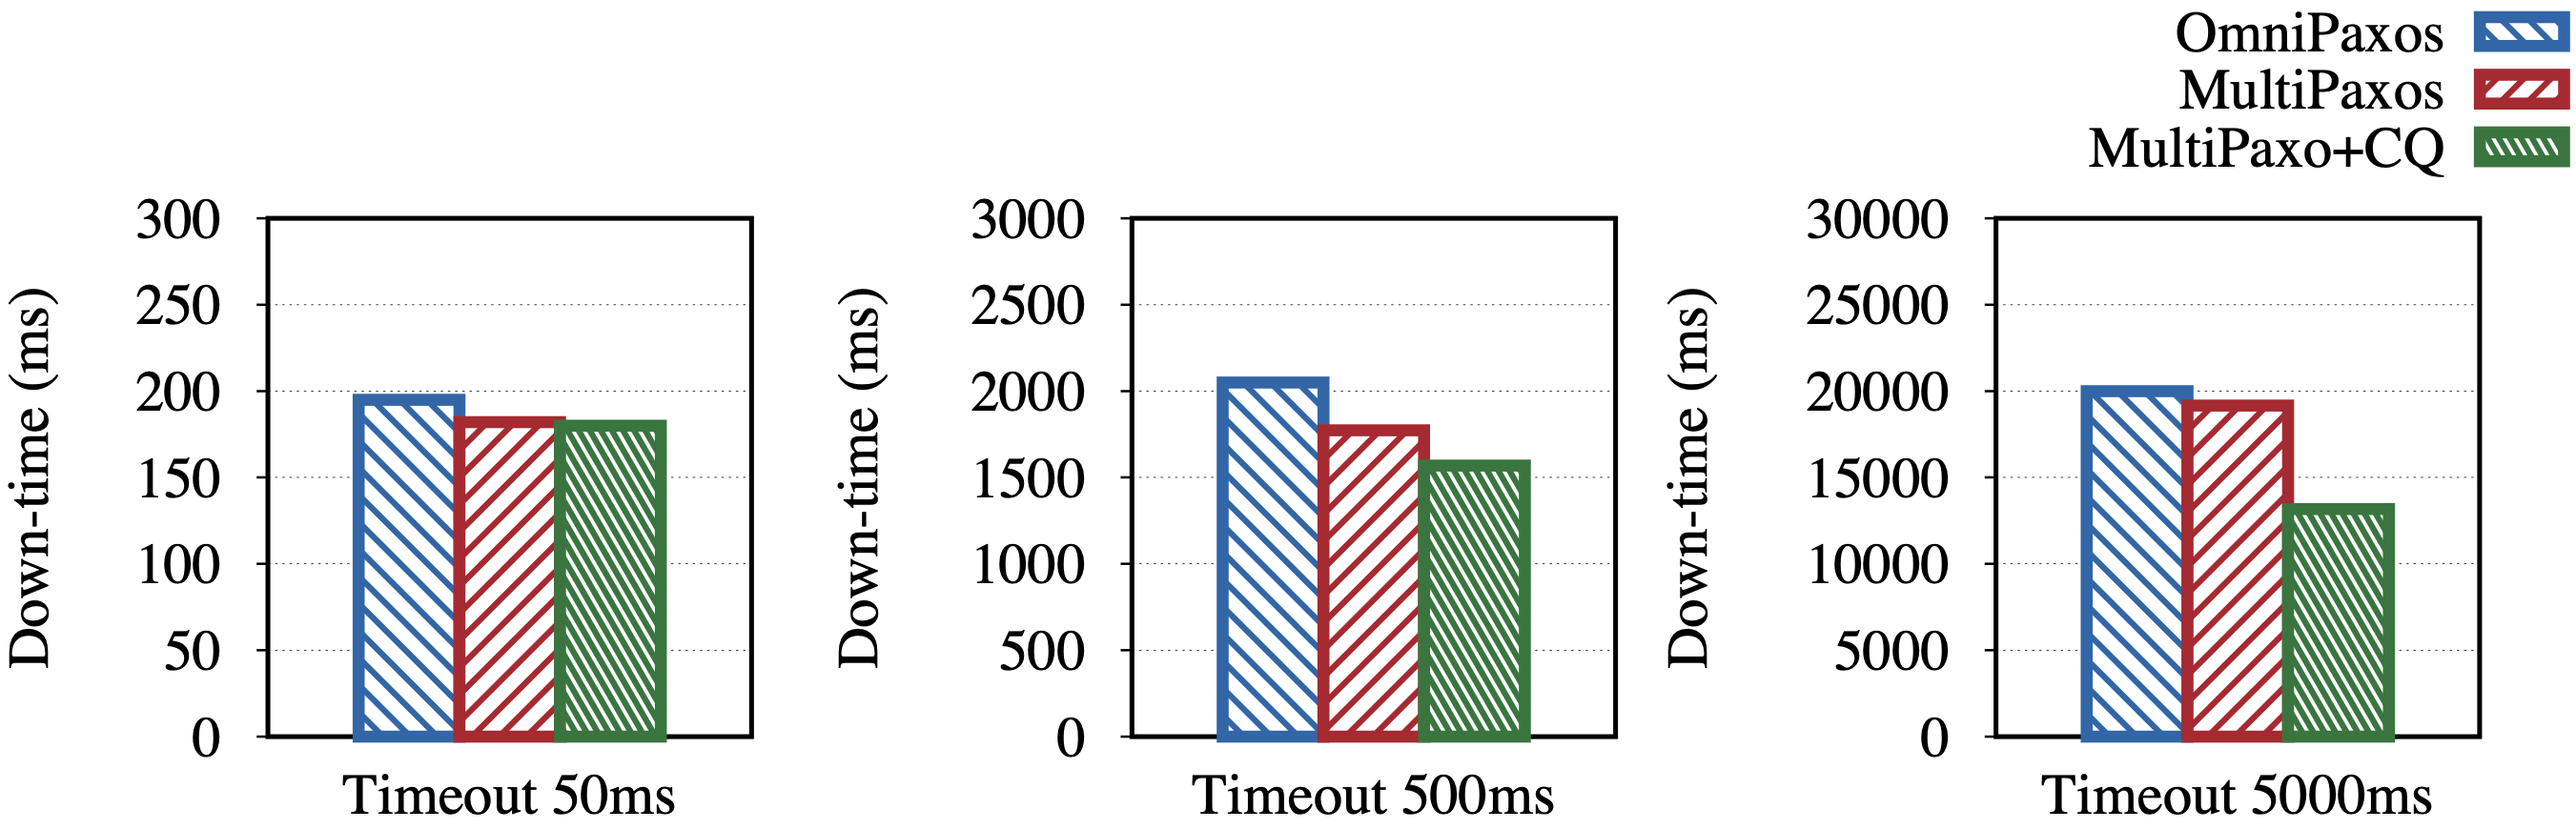
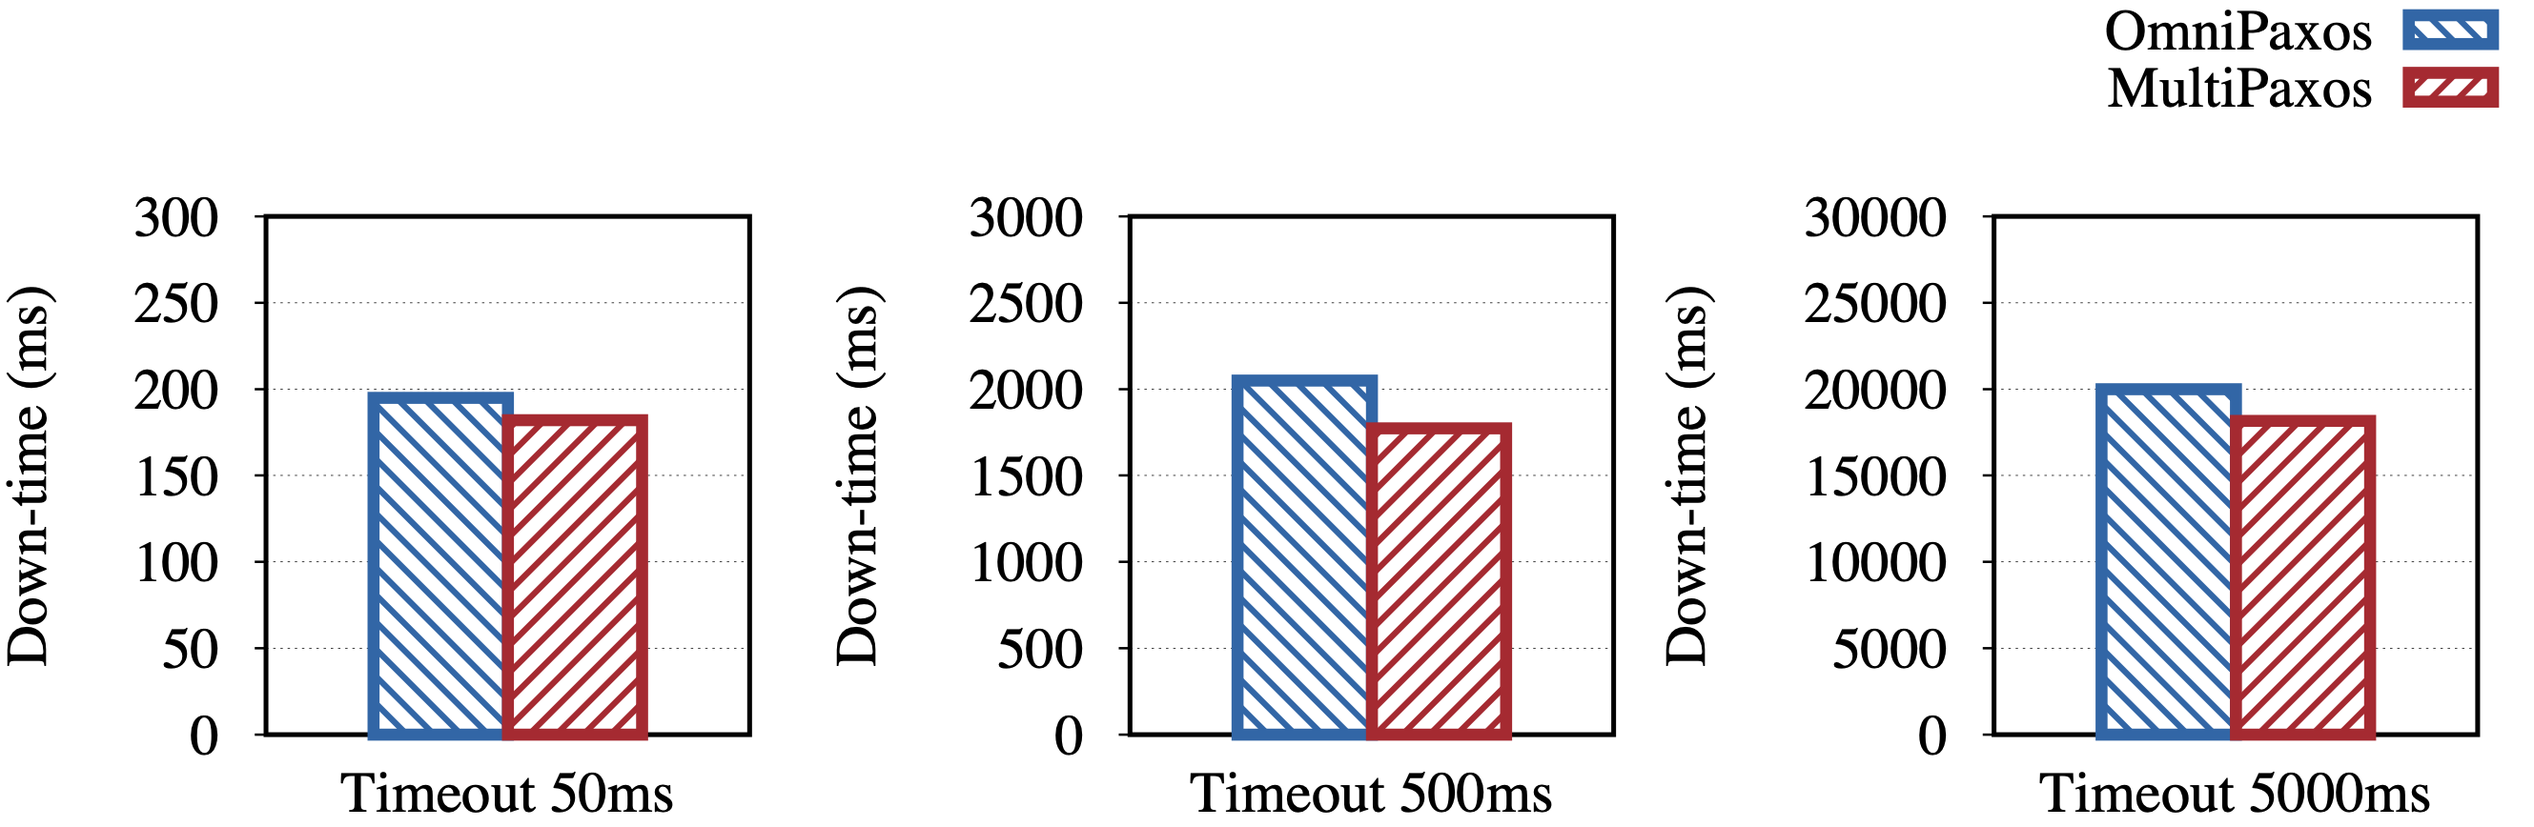
update the blog

diff --git a/_posts/2015-08-14-blog-post-4.md b/_posts/2015-08-14-blog-post-4.md
@@ -1,66 +1,71 @@
 ---
-title: 'Re-evaluation on MultiPaxos under partial network partition from 
+title: 'Re-evaluation on MultiPaxos under partial network partition from
 the OmniPaxos paper'
 date: 2023-06-28
 permalink: /posts/2023/06/blog-post-1/
 ---
 
 > TL;DR: OmniPaxos proposes some changes in MultiPaxos to deal with partial
-> network partitions, where classic MultiPaxos and Raft lead to deadlocks or
-> livelocks. However, our MultiPaxos implementation can easily elect a new
-> stable leader under the network partition.
+> network partitions, where classic MultiPaxos leads to deadlocks. However, we
+> show that it is not the case for MultiPaxos. Even without the complicated
+> optimization in OmniPaxos, MultiPaxos can easily elect a new stable leader
+> under the network partition.
 
-This paper appeared in EuroSys 23. It proposed a resilient approach, called
-OmniPaxos, to deal with partial network partition. The partial network partition
-refers to a scenario where two servers are unreachable from each other but
-connected by a third server. The authors argue that, under the partial network
-connectivity circumstance, traditional RSM systems (like Multi-Paxos, Raft, VR)
-may lead to performance degradation and even stop progressing because of
-deadlocks or livelocks.
+This paper appeared in EuroSys 23. It proposed a resilient approach,
+called [OmniPaxos](https://dl.acm.org/doi/abs/10.1145/3552326.3587441), to deal
+with partial network partition. The partial network partition refers to a
+scenario where two servers are unreachable from each other but connected by a
+third server. The authors argue that, under the partial network connectivity
+circumstance, traditional RSM systems (like Multi-Paxos, Raft, VR) may lead to
+performance degradation and even stop progressing because of deadlocks or
+livelocks.
 
 ## What is partial network partition?
 
-![Example](https://raw.githubusercontent.com/Zhiying12/zhiying12.github.io/master/images/post-06%3A28-partition.png "Example")
+![](https://raw.githubusercontent.com/Zhiying12/zhiying12.github.io/master/images/post-06%3A28-partition.png "Example")
 
 This paper identifies and focuses on three types of partial network connectivity
-that can lead to livelocks in existing RSM systems. All three scenarios are 
+that can lead to livelocks in existing RSM systems. All three scenarios are
 shown in the graph borrowed from the paper.
 
-- ***Quorum-loss scenario***. Given an initial cluster of five fully-connected 
-  servers , where Server C is the stable leader, the quorum-loss scenario may arise when all
-servers are connected to Server A only and disconnected from the rest. In this
-case, Server B, D, and E cannot become the leader because they only receive
-votes from Server A and itself at most, which is less than the majority
-requirement, while Server A will not start the leader election because it can
-still receive heartbeats from the existing leader C. \
-Though this claim is not fully valid, the authors argue that, except for Raft, 
-the replication progress will be stalled because no functional leader will be 
-elected. (However, we will show that MultiPaxos can handle this scenario as 
-well in the later section).
+- ***Quorum-loss scenario***. Given an initial cluster of five fully-connected
+  servers , where Server C is the stable leader, the quorum-loss scenario may
+  arise when all servers are connected to Server A only and disconnected from
+  the rest. In this case, Server B, D, and E cannot become the leader because
+  they only receive votes from Server A and itself at most, which is less than
+  the majority requirement, while Server A will not start the leader election
+  because it can still receive heartbeats from the existing leader C. \
+  Though this claim is not fully valid, the authors argue that, except for Raft,
+  the replication progress will be stalled because no functional leader will be
+  elected. (However, we will show that MultiPaxos can handle this scenario as
+  well in the later section).
 
-* ***Constrained Election Scenario***. It is similar to the previous scenarios, but 
-this time, Server A is disconnected from C. If A does not contain the latest log, for
-Raft, VR, and Zab, A cannot become the leader, because these protocols have log
-requirements for the leader election. Similarly, the replication progress will
-be suspended because of no leader. 
+* ***Constrained Election Scenario***. It is similar to the previous scenarios,
+  but this time, Server A is disconnected from C. If A does not contain the
+  latest log, for Raft, VR, and Zab, A cannot become the leader, because these
+  protocols have log requirements for the leader election. Similarly, the
+  replication progress will be suspended because of no leader.
 
-- ***Chained Scenarios***. Given a cluster of three fully-connected servers, 
-where Server B is the leader. If B and C become unreachable from each other, the
-chained scenario may occur. C will start the leader election and become the
-leader. When Server B learns about the new leader via A, it will trigger another
-round of leader election, because B will not receive any heartbeats from leader 
-C. Similarly, when B becomes leader, C may start an election again. With 
-repeated leader election, the cluster will lead to a livelock situation. 
-This is noted as the Cloudfare outage case. 
+- ***Chained Scenarios***. Given a cluster of three fully-connected servers,
+  where Server B is the leader. If B and C become unreachable from each other,
+  the
+  chained scenario may occur. C will start the leader election and become the
+  leader. When Server B learns about the new leader via A, it will trigger
+  another
+  round of leader election, because B will not receive any heartbeats from
+  leader
+  C. Similarly, when B becomes leader, C may start an election again. With
+  repeated leader election, the cluster will lead to a livelock situation.
 
 ## How OmniPaxos deals with it?
 
 This paper proposes a solution by introducing a concept called quorum-connected
 servers for leader election and decoupling leader election and log replication.
-> A quorum-connected server maintains connection to at least the majority of servers. 
+A quorum-connected server maintains connection to at least the majority of
+servers.
 
 All servers exchange the information of what servers are quorum-connected
-periodically. When the leader election happens, servers only vote for the 
+periodically. When the leader election happens, servers only vote for the
 candidate with the highest ballot that is quorum-connected. Additionally,
 OmniPaxos separates and modularizes leader election, log replication, and
 reconfiguration, eliminating the requirement of the log for the leader election.
@@ -69,92 +74,42 @@ elected under the three partial network partition scenarios above.
 
 ## Can MultiPaxos survive under the quorum-loss scenario?
 
-![MP](https://raw.githubusercontent.com/Zhiying12/zhiying12.github.io/master/images/post-06%3A28-mp.png "MP")
+![](https://raw.githubusercontent.com/Zhiying12/zhiying12.github.io/master/images/post-06%3A28-mp.png "MP")
 
 Despite the claim from the paper, we disagree with the claim and evaluation
 results in the paper that MultiPaxos leads to deadlock in the case of the
-quorum-loss scenario. In our MultiPaxos implementation, it can easily elect 
+quorum-loss scenario. We followed the classic MultiPaxos protocol and
+implemented in C++. In our MultiPaxos implementation, it can easily elect
 a new stable leader. As shown in the figure, there are several steps as follows.
 
-1. When this quorum-loss scenario happens, all servers, except for Server A, 
+1. When this quorum-loss scenario happens, all servers, except for Server A,
    lose the connection with C.
-2. Then Server B, D, or E will trigger the leader election with a higher ballot 
+2. Then Server B, D, or E will trigger the leader election with a higher ballot
    and send prepare (P1) requests to A. Because of the higher ballot,
    Server A will give a promise to one of them and update its own ballot.
    Consequently, Server A will no longer respond to the heartbeat from the old
-   leader C. 
+   leader C.
 3. In the meantime, Server B, D, and E cannot become a new leader, A will not
    receive any heartbeats from the new leader, resulting in a timeout and
-   another round of leader election initialized by A. 
-4. A will be the new leader, and the system will return to normal and make 
+   another round of leader election initialized by A.
+4. A will be the new leader, and the system will return to normal and make
    progress.
 
-## Reevaluation on MultiPaxos with quorum-loss scenario
+## Reevaluation on MultiPaxos under the quorum-loss scenario
 
-![Result](https://raw.githubusercontent.com/Zhiying12/zhiying12.github.io/master/images/post-06%3A28-result.png "Result")
+![](https://raw.githubusercontent.com/Zhiying12/zhiying12.github.io/master/images/post-06%3A28-result.png "Result")
 
-We evaluated our Multi-Paxos implementation with the same experiment setting
-from the paper. We deployed five MultiPaxos instances on AWS m5.2xlarge
-machines (8 cores and 32 GiB RAM). We repeated experiments with timeout of 
-50, 500, and 5000 ms.
+We conducted an evaluation of our MultiPaxos implementation using the same
+experiment setting from the OmniPaxos paper. We deployed five MultiPaxos
+instances on AWS m5.2xlarge machines (8 cores and 32 GiB RAM). We repeated
+experiments with timeout of 50, 500, and 5000 ms, respectively.
 
-Although our implementation does not include any significant optimizations, i.e. 
-no optimization on leader election and failure detectors, the result shows that 
-the down-time is even better than OmniPaxos. It contradicts with the claim that 
-Multi-Paxos would cause deadlock in the quorum-loss scenario. Additionally, 
-Multi-Paxos does not need to disseminate the information of quorum connectivity, 
-which can decrease a larger number of messages exchanged among peers than 
-Omnipaxos.
-
-Inspired by the raft paper [] and etcd v3.5 [], we also introduced CheckQuorum
-to MultiPaxos. When the leader no longer holds a quorum of connections, it will
-become a follower again and allow leader elections. We examine it with the same
-setting and denote it as MultiPaxos+CQ in the figure. It shows that its
-down-time is further improved, especially with the timeout of 5000ms. Normally,
-Server A can be elected as the new leader after the duration of around 2
-timeouts (1 for initial timeout of Server B, D, E, 1 for timeout of Server A).
-Now, with CheckQuorum, the old leader C actively stops broadcasting heartbeats,
-then A gets a chance to start leader election immediately. Thus the down-time
-may be reduced to around 1 timeout. When the timeout is much longer, its effect
-becomes more significant.
-
-## What about Chained scenarios?
-
-![chaiined](https://raw.githubusercontent.com/Zhiying12/zhiying12.github.io/master/images/post-06%3A28-chained.png "chained")
-
-Unfortunately, when we examine MultiPaxos under Chained scenarios, it does show
-that MultiPaxos experiences livelocks in every run. Therefore, we need a
-solution to Chained scenarios for MultiPaxos. While OmniPaxos can find a stable
-leader, there are still some limitations. As we can see from the figure above,
-the new leader C can only connect with A, which means that data is replicated
-only on Server A and C. When the partition lasts too long, Sever B will be a
-laggard. It not only stops log compaction, but also increases more overhead for
-log recovery on B when the partition is removed. Moreover, Server B is not aware
-of the new leader, so it needs extra coordination to direct client requests from
-B to C.
-
-However, if we can elect Sever A as the new leader in the first place, A can
-replicate data to all peers, which saves spaces for in-memory data. In addition,
-even after the network resumes, Sever A is still a stable leader, it does not
-need any new leader elections or extra coordination.
-
-We propose a simple approach based on the CheckQuorum mechanism. When the leader
-notices that some heartbeat requests become undeliverable, it can stop sending
-out heartbeats to allow a leader election. In this case, Server A will be the
-new leader, which is the optimal choice for Chained scenarios.
-
-## Further discussion
-
-The main limitation of this approach is that peers are not fully sure whether a
-network partition is partially disconnected (partial partition) or totally
-disconnected (full partition). When the replication group is more than 3, such
-as 5, we need to figure out which node is better as the new leader.
-
-We can use the information of quorum-connected servers. When the network
-partition is placed, the server connected with the most quorum-connected servers
-is supposed to have higher priority to start the leader election, i.e., be a new
-leader. With the most connection to quorum-connected servers, it can suppress
-most unnecessary leader elections, so that it is more possible to avoid live
-locks.
-
-
+As shown in the figure above, it contradicts with the claim that MultiPaxos
+would result in deadlock in the quorum-loss scenario. Though we do not optimize
+MultiPaxos specifically for the partial network partition, the result shows that
+MultiPaxos exhibits even better downtime performance than OmniPaxos. Compared
+with OmniPaxos, MultiPaxos does not need to disseminate and relay the
+information of quorum connectivity, thereby reducing the number of messages
+exchanged among peers. Furthermore, MultiPaxos does not need extra policies for
+leader election, but it still can achieve similar performance without those
+implementation overhead.
